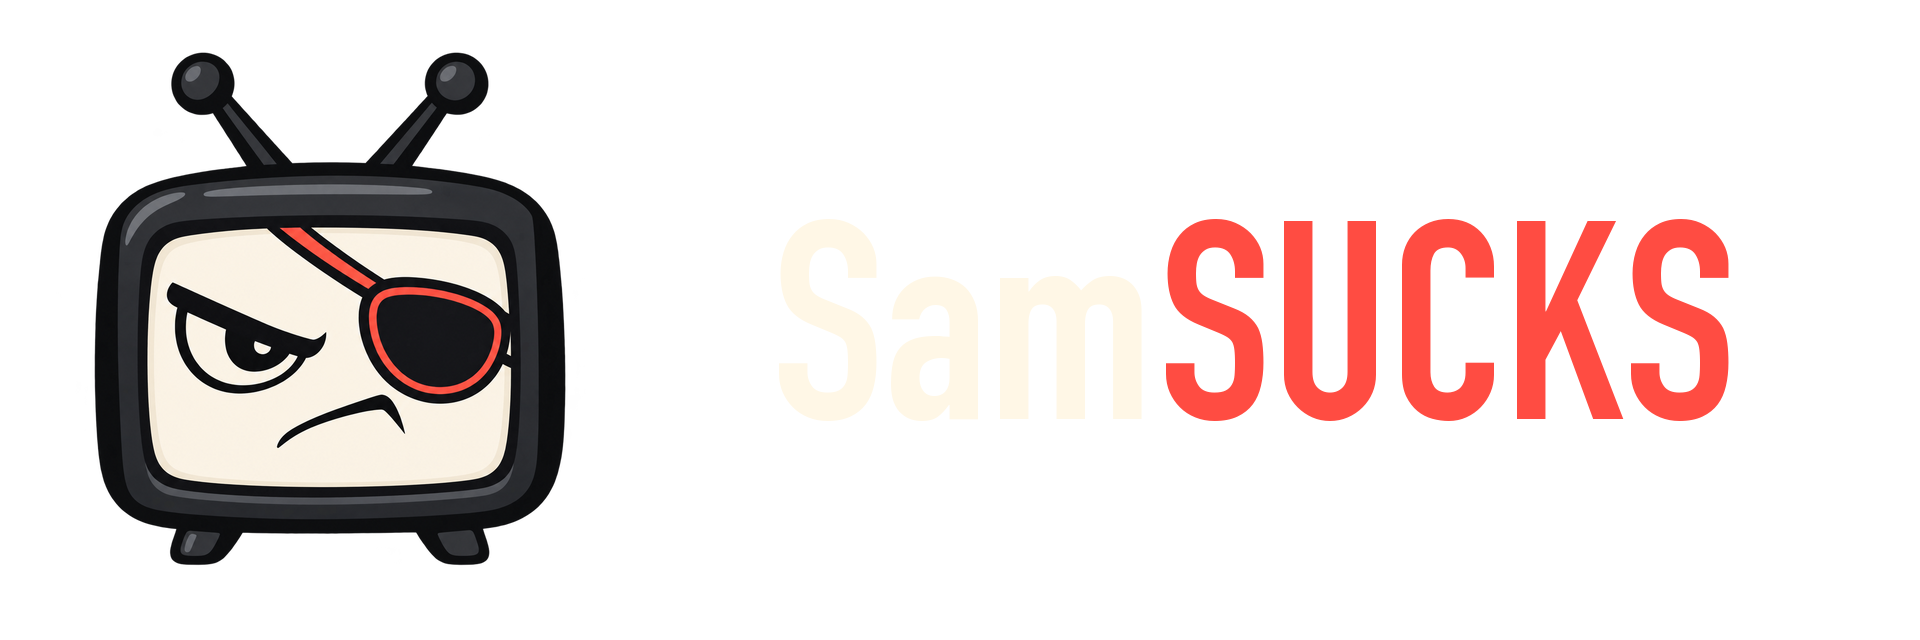
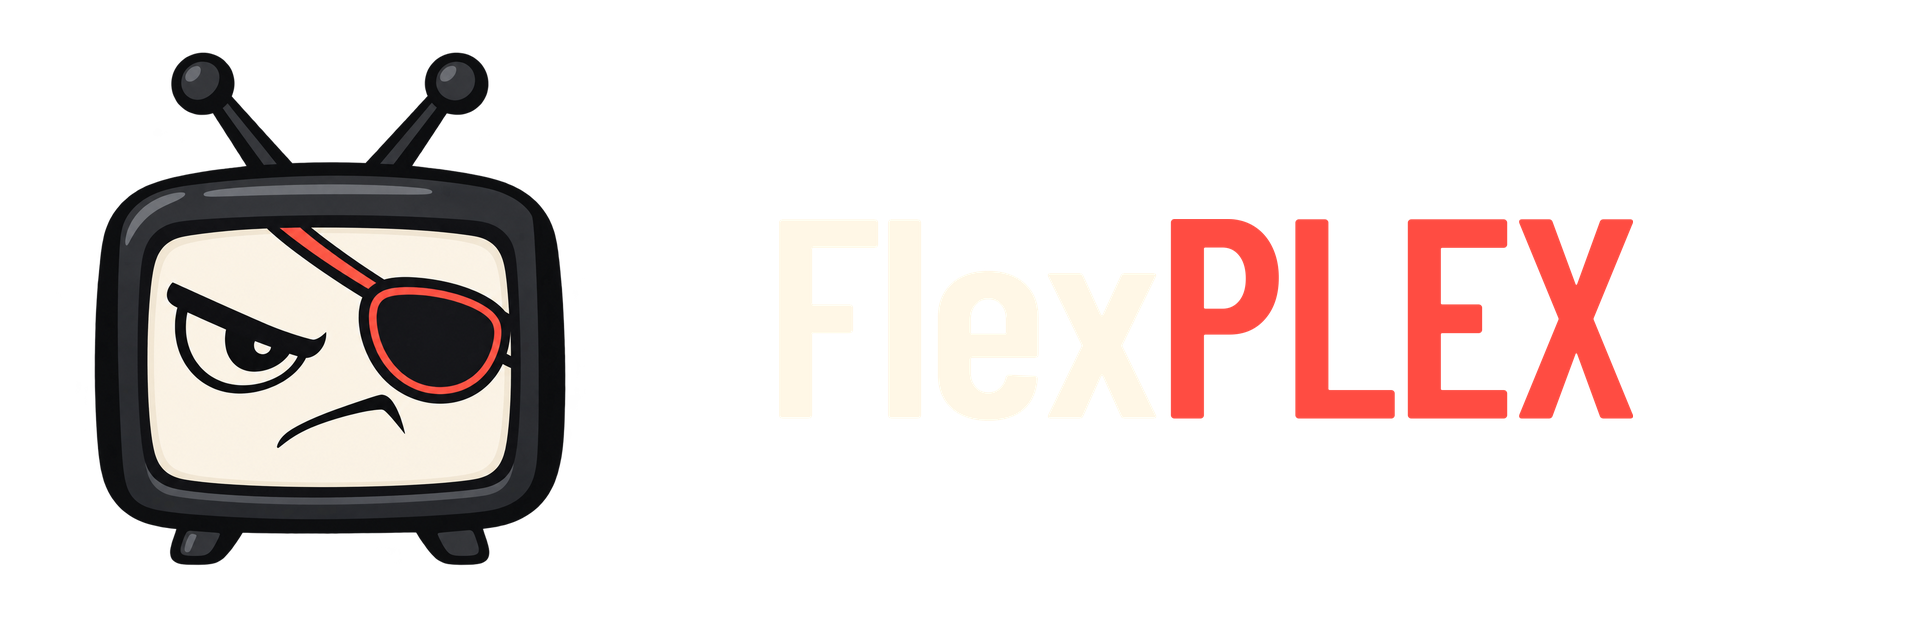
Rename the app to FlexPlex (v0.2.0)
- TV app name, page title, Plex product/device name (what shows in the
  Plex dashboard and on plex.tv/link), Settings footer, scripts and
  .env defaults now say FlexPlex.
- New wordmark ("Flex" + coral "PLEX", Barlow Condensed 600) in the
  home header, splash screen and README logos, redrawn by the new
  scripts/make-wordmark.py; the mascot is unchanged.
- README: renamed, clone URL points at this fork, and a note that
  FlexPlex is a modified version of SamSUCKS by rfaile313 (GPLv3).
- The Tizen application id stays SamSucks01.samsucks so installs update
  the existing app in place and keep the sign-in.

Claude-Session: https://claude.ai/code/session_01M5J3nN7Khy5kgcQqtWFSX1

Changed region(s): [[0.4062, 0.3438, 0.9062, 0.6562]]

diff --git a/app/js/screens/settings.js b/app/js/screens/settings.js
@@ -23,7 +23,7 @@ export function SettingsScreen() {
   h('h1', 'settings-title', el).textContent = 'Settings';
   const list = h('div', 'settings-list', el);
   const foot = h('div', 'settings-foot', el);
-  foot.textContent = 'SamSUCKS ' + VERSION + (DEV ? ' (dev)' : '') + ' · ' + (session.server ? session.server.uri.replace(/X-Plex-Token=.*/, '') : '');
+  foot.textContent = 'FlexPlex ' + VERSION + (DEV ? ' (dev)' : '') + ' · ' + (session.server ? session.server.uri.replace(/X-Plex-Token=.*/, '') : '');
 
   let index = 0;
   let items = [];
@@ -74,7 +74,7 @@ export function SettingsScreen() {
 
   function restart() {
     // Rebuild from scratch: app.js decides between login and home.
-    window.dispatchEvent(new Event('samsucks:restart'));
+    window.dispatchEvent(new Event('flexplex:restart'));
   }
 
   build();

diff --git a/app/js/platform/tizen.js b/app/js/platform/tizen.js
@@ -33,7 +33,7 @@ export function exitApp() {
 
 export function deviceInfo() {
   let model = 'Browser';
-  let name = 'SamSUCKS';
+  let name = 'FlexPlex';
   try { model = webapis.productinfo.getRealModel() || webapis.productinfo.getModel(); } catch (e) {}
   try { name = 'Samsung ' + (webapis.productinfo.getModel() || 'TV'); } catch (e) {}
   // PMS has a built-in "Tizen" profile (the official app) that rejects our

diff --git a/app/js/app.js b/app/js/app.js
@@ -80,7 +80,7 @@ export function boot() {
   }
   router.init(document.getElementById('app'));
   initHud(() => (router.top() && router.top().name) || '');
-  window.addEventListener('samsucks:restart', start);
+  window.addEventListener('flexplex:restart', start);
   // Dev builds only; release builds don't ship js/dev/.
   if (DEV && DEV_HOST) import('./dev/remote.js').then(m => m.startDevRemote());
   start();

diff --git a/app/js/config.js b/app/js/config.js
@@ -3,4 +3,4 @@ export const DEV = false;
 export const DEV_HOST = '';      // host:port of tools/devserver.mjs
 export const DEV_SECRET = '';    // dev only: build/dev-secret, required by tools/devserver.mjs
 export const DEV_PLEX_URL = '';  // dev only: skip sign-in and use this server directly
-export const VERSION = '0.1.0';
+export const VERSION = '0.2.0';

diff --git a/app/js/plex/client.js b/app/js/plex/client.js
@@ -4,7 +4,7 @@ import { deviceInfo } from '../platform/tizen.js';
 import * as store from '../util/store.js';
 import { uuid } from '../util/format.js';
 
-export const PRODUCT = 'SamSUCKS';
+export const PRODUCT = 'FlexPlex';
 
 let clientId = store.get('clientId');
 if (!clientId) {

diff --git a/app/index.html b/app/index.html
@@ -3,7 +3,7 @@
 <head>
 <meta charset="utf-8">
 <meta name="viewport" content="width=1920, height=1080">
-<title>SamSUCKS</title>
+<title>FlexPlex</title>
 <link rel="stylesheet" href="css/app.css">
 <script src="$WEBAPIS/webapis/webapis.js"></script>
 </head>

diff --git a/scripts/make-wordmark.py b/scripts/make-wordmark.py
@@ -1,0 +1,96 @@
+"""Redraw the FlexPlex wordmark into the brand images (run with python3 -I).
+
+"Flex" in cream (or charcoal on light backgrounds) + "PLEX" in coral, set in
+the app's Barlow Condensed 600 (closest to the original lettering's weight),
+slightly tightened, at the size and position of the previous wordmark in each
+image. The mascot artwork is left untouched. Needs Pillow, numpy and
+opencv-python. Afterwards run scripts/make-brand.py to refresh
+app/img/wordmark.png.
+"""
+from pathlib import Path
+import cv2
+import numpy as np
+from PIL import Image, ImageDraw, ImageFont
+
+root = Path(__file__).resolve().parent.parent
+FONT = root / 'app' / 'fonts' / 'barlow-condensed-latin-600-normal.woff2'
+TRACKING = -0.02  # em
+CREAM = (255, 247, 230, 255)
+CHARCOAL = (18, 20, 25, 255)
+CORAL = (255, 76, 66, 255)
+WORDS = ('Flex', 'PLEX')
+
+
+def wordmark(height, first=CREAM, second=CORAL):
+    """Tight RGBA image of the wordmark, scaled to `height` px tall."""
+    size = 800
+    font = ImageFont.truetype(str(FONT), size)
+    chars = [(c, first) for c in WORDS[0]] + [(c, second) for c in WORDS[1]]
+    im = Image.new('RGBA', (int(sum(font.getlength(c) for c, _ in chars)) + 40, 1000), (0, 0, 0, 0))
+    d = ImageDraw.Draw(im)
+    x = 20
+    for c, color in chars:
+        d.text((x, 0), c, font=font, fill=color)
+        x += font.getlength(c) + TRACKING * size
+    im = im.crop(im.getchannel('A').getbbox())
+    return im.resize((round(im.width * height / im.height), height), Image.LANCZOS)
+
+
+def place(canvas, mark, box, align='center'):
+    """Paste `mark` into canvas, vertically centred in box, aligned horizontally."""
+    x0, y0, x1, y1 = box
+    y = y0 + ((y1 - y0) - mark.height) // 2
+    x = x0 if align == 'left' else x0 + ((x1 - x0) - mark.width) // 2
+    canvas.alpha_composite(mark, (x, y)) if canvas.mode == 'RGBA' else canvas.paste(mark, (x, y), mark)
+
+
+def transparent_wordmark(name, first):
+    path = root / 'assets' / 'brand' / name
+    old = Image.open(path).convert('RGBA')
+    box = old.getchannel('A').getbbox()
+    out = Image.new('RGBA', old.size, (0, 0, 0, 0))
+    place(out, wordmark(box[3] - box[1], first), box)
+    out.save(path, optimize=True)
+    print(name, out.size)
+
+
+def lockup(name, first, text_left=700):
+    """Mascot on the left stays; the text area right of `text_left` is redrawn."""
+    path = root / 'assets' / 'brand' / name
+    im = Image.open(path).convert('RGBA')
+    alpha = im.getchannel('A')
+    text = alpha.crop((text_left, 0, im.width, im.height)).getbbox()
+    box = (text_left + text[0], text[1], text_left + text[2], text[3])
+    im.paste((0, 0, 0, 0), (text_left, 0, im.width, im.height))
+    place(im, wordmark(box[3] - box[1], first), box, align='left')
+    im.save(path, optimize=True)
+    print(name, 'text box', box)
+
+
+def splash(path, band=(600, 660, 1320, 830)):
+    """Find the wordmark (bright pixels in `band`, above the dim tagline),
+    inpaint it away so the background gradient continues, then draw the new
+    one centred at the same height. Safe to re-run."""
+    im = Image.open(path).convert('RGB')
+    a = np.array(im)
+    bx0, by0, bx1, by1 = band
+    region = a[by0:by1, bx0:bx1]
+    text = region.max(axis=2) > 150
+    ys, xs = np.nonzero(text)
+    box = (bx0 + xs.min(), by0 + ys.min(), bx0 + xs.max(), by0 + ys.max())
+    mask = np.zeros(a.shape[:2], np.uint8)
+    mask[by0:by1, bx0:bx1] = text.astype(np.uint8) * 255
+    mask = cv2.dilate(mask, np.ones((9, 9), np.uint8))  # catch anti-aliased edges
+    clean = cv2.inpaint(cv2.cvtColor(a, cv2.COLOR_RGB2BGR), mask, 9, cv2.INPAINT_TELEA)
+    im = Image.fromarray(cv2.cvtColor(clean, cv2.COLOR_BGR2RGB))
+    mark = wordmark(box[3] - box[1])
+    im.paste(mark, ((im.width - mark.width) // 2, box[1]), mark)
+    im.save(path, optimize=True)
+    print(path.relative_to(root), 'old text box', box)
+
+
+transparent_wordmark('wordmark-light-1600x400.png', CREAM)
+transparent_wordmark('wordmark-dark-1600x400.png', CHARCOAL)
+lockup('lockup-horizontal-light-1920x640.png', CREAM)
+lockup('lockup-horizontal-dark-1920x640.png', CHARCOAL)
+splash(root / 'app' / 'img' / 'splash.png')

diff --git a/README.md b/README.md
@@ -1,7 +1,7 @@
 <p align="center">
   <picture>
     <source media="(prefers-color-scheme: light)" srcset="assets/brand/lockup-horizontal-dark-1920x640.png">
-    <img src="assets/brand/lockup-horizontal-light-1920x640.png" alt="SamSUCKS" width="560">
+    <img src="assets/brand/lockup-horizontal-light-1920x640.png" alt="FlexPlex" width="560">
   </picture>
 </p>
 
@@ -10,8 +10,10 @@
   Smooth scrolling, hardware playback, zero dependencies.
 </p>
 
+<p align="center"><sub>A fork of <a href="https://github.com/rfaile313/samsucks">SamSUCKS</a> by rfaile313.</sub></p>
+
 <p align="center">
-  <img src="assets/readme/home.png" alt="SamSUCKS home screen" width="880">
+  <img src="assets/readme/home.png" alt="FlexPlex home screen" width="880">
 </p>
 
 The official Plex app on Samsung TVs is painfully slow. The same library flies on a
@@ -19,7 +21,7 @@ Fire TV or an Apple TV, so the TV isn't the problem; the app is.
 
 On my 75" Samsung Q60B (2022, Tizen 6.5):
 
-| | Official Plex app | SamSUCKS |
+| | Official Plex app | FlexPlex |
 | --- | --- | --- |
 | Opening the app | about a minute | about a second |
 | Typing in search | every letter lags | instant |
@@ -27,7 +29,7 @@ On my 75" Samsung Q60B (2022, Tizen 6.5):
 
 The Plex server answers a search in 30–150 ms, so the server was never the bottleneck.
 
-SamSUCKS is a from-scratch Plex client for Samsung's Tizen TVs, built for speed:
+FlexPlex is a from-scratch Plex client for Samsung's Tizen TVs, built for speed:
 
 - **Smooth.** About 50 fps while scrolling, with a 17 ms median frame, measured on a 2022 Samsung Q60B.
 - **Hardware playback.** It plays files directly through Samsung's video decoder.
@@ -42,10 +44,10 @@ You need:
 - a Mac or Linux computer on the same network as the TV,
 - a Plex Media Server.
 
-**1. Download SamSUCKS**
+**1. Download FlexPlex**
 
 ```sh
-git clone https://github.com/rfaile313/samsucks.git
+git clone https://github.com/DarkAngelGR/samsucks.git
 cd samsucks
 ```
 
@@ -66,7 +68,7 @@ The steps are also below. Run it again afterwards, and it picks up where it left
 ./scripts/deploy.sh
 ```
 
-SamSUCKS opens on the TV. Go to **[plex.tv/link](https://plex.tv/link)** on your phone
+FlexPlex opens on the TV. Go to **[plex.tv/link](https://plex.tv/link)** on your phone
 or computer and type the code it shows, or scan the QR code. That's it.
 
 <details>
@@ -86,7 +88,7 @@ When it's on, the Apps screen shows **Develop mode** at the top.
 ### Opening it later
 
 Press **Home** → **Apps** and scroll to the bottom, where your installed apps are.
-To pin it to the home bar, highlight **SamSUCKS**, open its options (hold **OK**) and
+To pin it to the home bar, highlight **FlexPlex**, open its options (hold **OK**) and
 choose **Add to Home**.
 
 ### Troubleshooting
@@ -133,7 +135,7 @@ if you treat it like a game engine:
 The biggest win was one line of CSS:
 
 <p align="center">
-  <img src="assets/readme/frame-trace.png" alt="Frame times for the same 12 button presses: the old renderer froze for about 2 seconds on every press and took 24.4 s; SamSUCKS finished in 3.7 s and never went above 66 ms" width="760">
+  <img src="assets/readme/frame-trace.png" alt="Frame times for the same 12 button presses: the old renderer froze for about 2 seconds on every press and took 24.4 s; FlexPlex finished in 3.7 s and never went above 66 ms" width="760">
 </p>
 
 A full-screen CSS gradient behind the UI took **almost two seconds** to repaint on the
@@ -210,7 +212,7 @@ measurable difference.
 - Plex Media Server 1.42 returns `400` for `start.m3u8` unless
   `/video/:/transcode/universal/decision` was called for the same session first.
 - `X-Plex-Platform=Tizen` selects the server's built-in profile for the official app,
-  which rejects these transcode requests, so SamSUCKS identifies itself as `Samsung`.
+  which rejects these transcode requests, so FlexPlex identifies itself as `Samsung`.
 - Samsung TVs from 2018 on can't decode DTS. For those files Plex copies the video
   and converts only the audio, to AC3 5.1.
 </details>
@@ -223,11 +225,12 @@ for LG TVs. Fonts: [Inter](https://rsms.me/inter/) and
 License). QR codes: [qrcode-generator](https://github.com/kazuhikoarase/qrcode-generator)
 by Kazuhiko Arase (MIT).
 
-SamSUCKS is an independent project, not affiliated with Plex or Samsung.
+FlexPlex is an independent project, not affiliated with Plex or Samsung.
 
 ## License
 
-Copyright © 2026 rfaile313. SamSUCKS is free software, released under the
+FlexPlex is a modified version of [SamSUCKS](https://github.com/rfaile313/samsucks),
+copyright © 2026 rfaile313; changes copyright © 2026 DarkAngelGR. It is free software, released under the
 [GNU General Public License v3.0](LICENSE): you can use, study, change and share it,
 and anything you distribute that's built on it must stay open source under the same
 license.

diff --git a/assets/README.md b/assets/README.md
@@ -1,4 +1,4 @@
-# SamSUCKS branding assets
+# FlexPlex branding assets (originally SamSUCKS)
 
 Production-ready PNG branding for the SamSUCKS Samsung Tizen TV app. The visual system uses a charcoal television mascot, angry face, coral pirate eye patch, warm cream highlights, and a condensed `SamSUCKS` wordmark.
 
